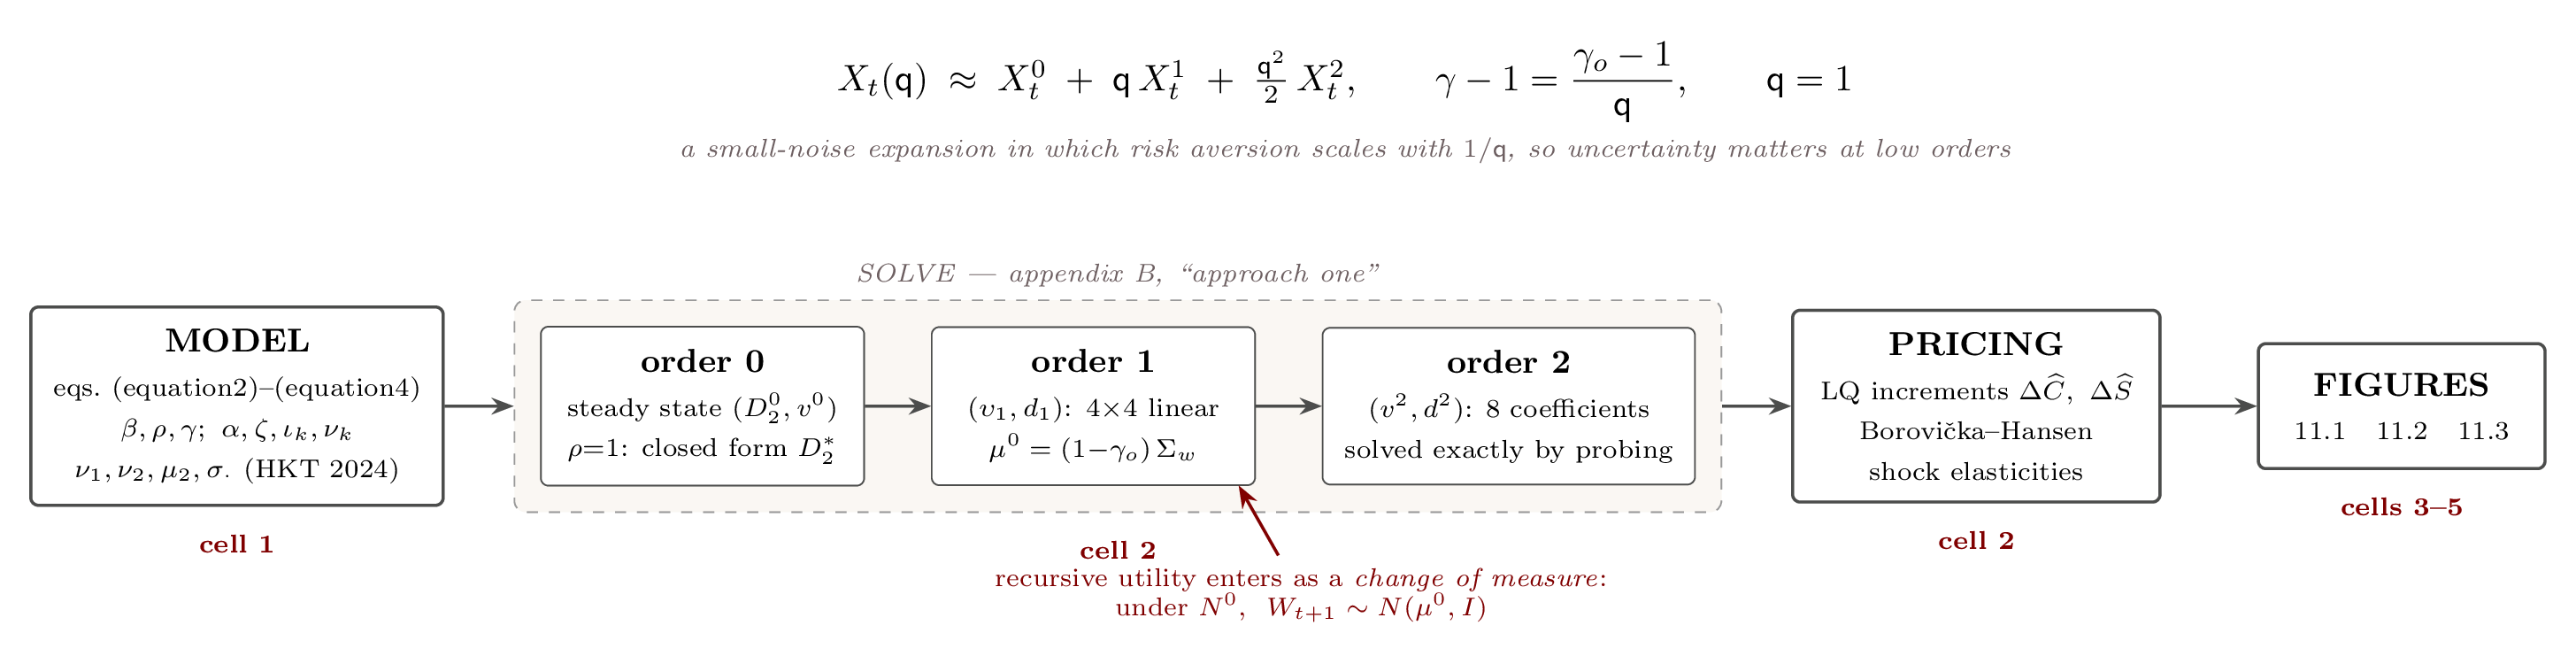
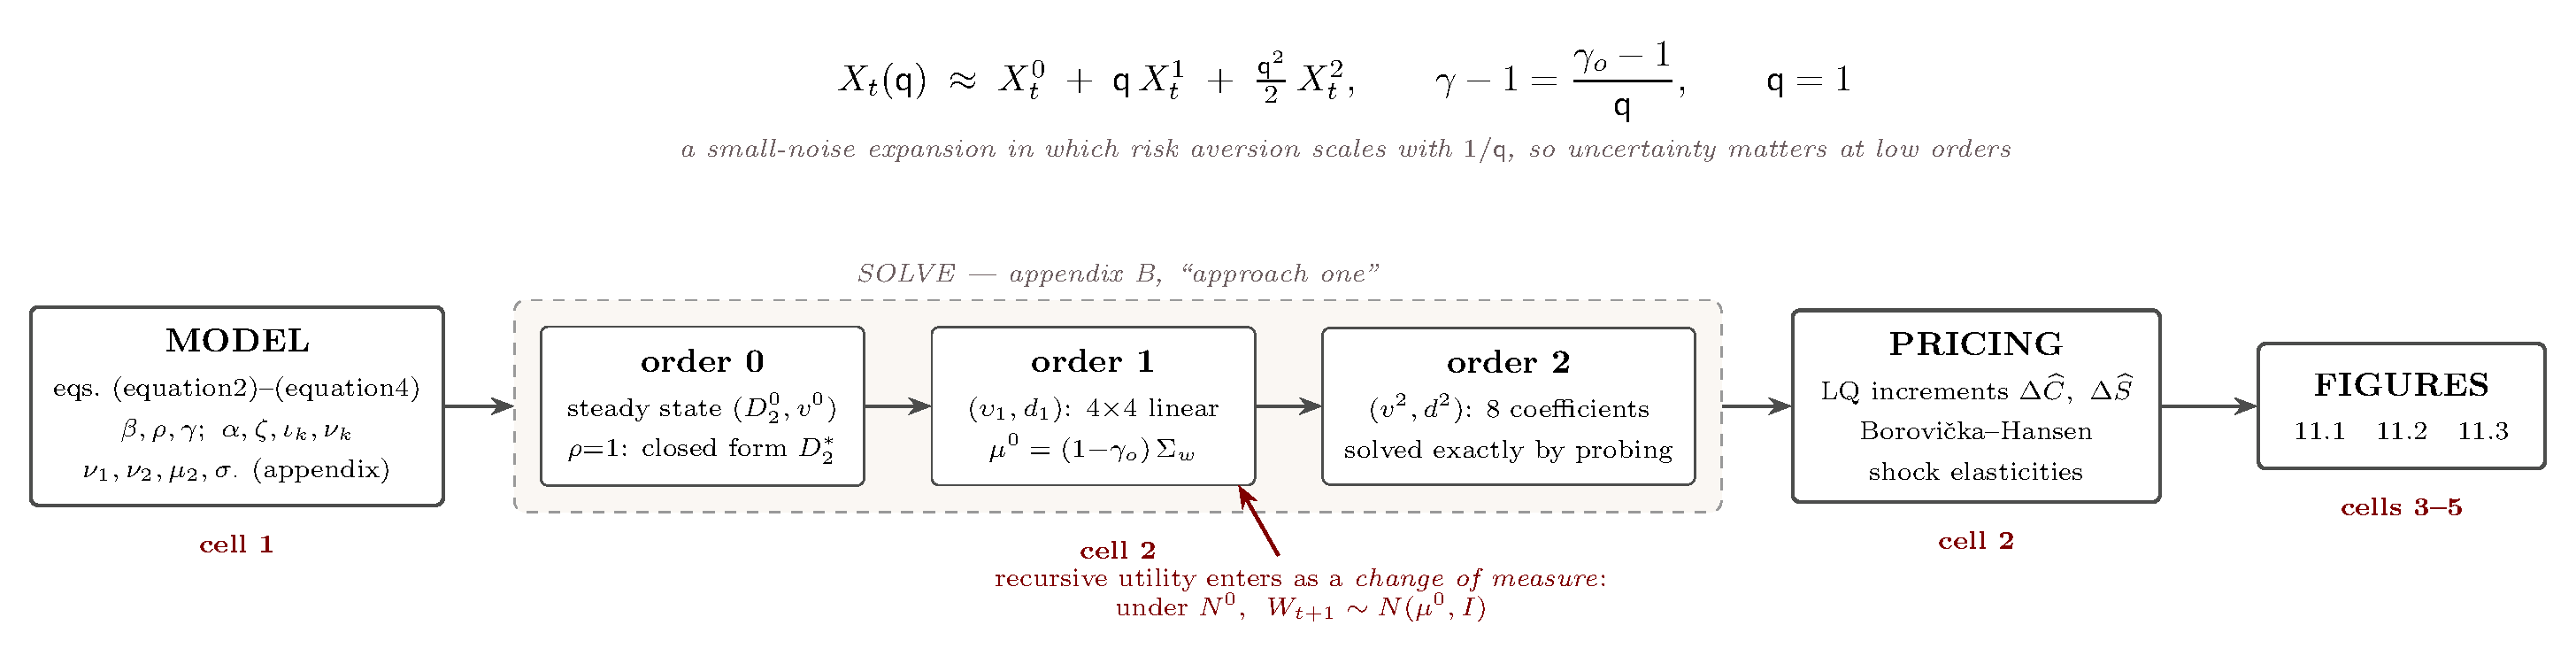
appendix is the reference

diff --git a/make_notebook.py b/make_notebook.py
@@ -19,8 +19,8 @@ TITLE = r"""# Chapter 11: Figures 11.1–11.3
 
 The AK production economy of Chapter 11, declared in the chapter's notation
 and solved with the expansion engine (`uncertain_expansion`, imported
-directly from this repository's `src/`). Parameters follow the appendix
-table and Hansen–Khorrami–Tourre (2024), converted to quarterly.
+directly from this repository's `src/`). Parameters are the quarterly
+values of the chapter appendix.
 
 ![method](https://raw.githubusercontent.com/as7391746/QuantMFR-Colab/main/assets/method.png)
 
@@ -82,28 +82,24 @@ MODEL = r"""# ================================ MODEL ===========================
 #   - recursive preferences {eq}`value_recur5`/{eq}`value_risk6` (handled
 #     inside the engine; only beta, rho, gamma appear here).
 #
-# Everything is QUARTERLY. Conversion from the annual numbers in the
-# appendix table / HKT 2024: rates and flows are divided by 4; volatility
-# vectors are the monthly calibration scaled by sqrt(3) (variances add
-# across the three months of a quarter).
+# All parameter values are quarterly, as in the chapter appendix.
 SQRT3 = np.sqrt(3.0)
 PARAMS = {
-    "beta": np.exp(-0.01 / 4),        # discount factor: delta = 0.01/yr -> exp(-0.01/4)
-    "zeta": 32.0,                     # adjustment-cost curvature: 8/yr x 4 (I/K is a quarterly ratio)
-    "iota_k": 0.01,                   # capital drift constant: 0.04/yr / 4
-    "nu_k": 0.01,                     # capital loading on Z1:   0.04/yr / 4
-    "nu_1": 0.014,                    # Z1 mean reversion:       0.056/yr / 4  (autocorr 0.986)
-    "nu_2": 0.0485,                   # Z2 mean reversion:       0.194/yr / 4
-    "mu_2": 6.3e-6,                   # central tendency of exp(Z2): a level, no conversion
-    "sigma_k": SQRT3 * np.array([0.92, 0.40, 0.0]),     # capital shock loadings (monthly x sqrt(3))
+    "beta": np.exp(-0.0025),          # quarterly discount factor
+    "zeta": 32.0,                     # adjustment-cost curvature
+    "iota_k": 0.01,                   # capital drift constant
+    "nu_k": 0.01,                     # capital loading on Z1
+    "nu_1": 0.014,                    # Z1 mean reversion (autocorrelation 0.986)
+    "nu_2": 0.0485,                   # Z2 mean reversion
+    "mu_2": 6.3e-6,                   # central tendency of exp(Z2)
+    "sigma_k": SQRT3 * np.array([0.92, 0.40, 0.0]),     # capital shock loadings
     "sigma_1": SQRT3 * np.array([0.0, 5.70, 0.0]),      # growth-state loadings
     "sigma_2": SQRT3 * np.array([0.0, 0.0, 0.00031]),   # volatility-state loadings
 }
-# Productivity alpha is stated annually and paired with rho so that all
-# rho share the same 1.9%/yr steady-state growth (HKT 2024, Table 3);
-# quarterly alpha = annual / 4. The base case uses 0.0922.
-ALPHA_ANNUAL = {0.67: 0.082, 1.001: 0.092, 1.5: 0.108}
-ALPHA_BASE = 0.0922
+# Productivity alpha is paired with rho so that all specifications share
+# the same steady-state growth. The base case uses 0.02305.
+ALPHA = {0.67: 0.0205, 1.001: 0.023, 1.5: 0.027}
+ALPHA_BASE = 0.02305
 
 # Declare the model. m["X"] gives the symbol for a variable; m.p.name gives
 # a parameter symbol; m.W are next-period shocks; m.q is the noise scale;
@@ -139,15 +135,15 @@ m.constraint = p.alpha - D1 - D2
 #   invk_r*   (gamma = 8)       -> Fig 11.2 (investment-capital exposure)
 #   g*_r*     (3x3 gamma x rho) -> Fig 11.1 (consumption, 6-panel grid)
 # gamma/rho carry small offsets from the degenerate values (8.001 for 8,
-# 1.001 for 1), as in the runs behind the published figures.
+# 1.001 for 1) to stay clear of the limiting formulas.
 SCENARIOS = (
     [{"id": "base", "gamma": 8.001, "rho": 1.001,
-      "alpha_annual": ALPHA_BASE, "figure": "price_quantiles"}]
+      "alpha": ALPHA_BASE, "figure": "price_quantiles"}]
     + [{"id": f"invk_r{r}", "gamma": 8.0, "rho": r,
-        "alpha_annual": ALPHA_ANNUAL[r], "figure": "invk_expo"}
+        "alpha": ALPHA[r], "figure": "invk_expo"}
        for r in [0.67, 1.001, 1.5]]
     + [{"id": f"g{g}_r{r}", "gamma": g, "rho": r,
-        "alpha_annual": ALPHA_ANNUAL[r], "figure": "six_panel"}
+        "alpha": ALPHA[r], "figure": "six_panel"}
        for g in [1.001, 4.001, 8.001] for r in [0.67, 1.001, 1.5]]
 )"""
 
@@ -169,7 +165,7 @@ T, GROWTH_SHOCK, CAPITAL_SHOCK = 160, 1, 0
 
 def solve_scenario(sc):
     # per-scenario parameters: preferences and the rho-paired alpha
-    alpha_q = sc["alpha_annual"] / 4.0
+    alpha_q = sc["alpha"]
     params = dict(PARAMS)
     params.update({"gamma": float(sc["gamma"]), "rho": float(sc["rho"]),
                    "alpha": alpha_q})
@@ -274,14 +270,12 @@ continuation value makes the growth-rate shock, rather than the direct
 capital shock, carry the large prices.
 
 **Calibration.** When $\rho$ varies, the productivity $\alpha$ is re-paired
-(0.082 / 0.092 / 0.108 annually) so all specifications share the same
-1.9%/yr steady-state growth (HKT 2024, Table 3). All parameters here are
-quarterly: annual drifts ÷ 4, volatilities $=\sqrt3\,\times$ the
-monthly-calibrated vectors, $\beta = e^{-0.01/4}$.
+(0.0205 / 0.023 / 0.027) so all specifications share the same steady-state
+growth. All parameter values are quarterly, as in the chapter appendix.
 
 **Checks.** The solver is the expansion engine itself, imported unmodified
 from `src/` (RiskUncertaintyValue, branch `Planners_with_External`, commit
-`09ca5df`), and the curves match the runs behind the published figures.
+`09ca5df`), and the resulting figures line up with the chapter's.
 More detail: [`README.md`](https://github.com/as7391746/QuantMFR-Colab)."""
 
 

diff --git a/expansion/ak_example.py b/expansion/ak_example.py
@@ -1,6 +1,6 @@
 """The Chapter 11 AK economy through the user-facing expansion layer:
 declare the chapter's equations in the chapter's notation, feed the
-appendix's quarterly parameter table, and generate Figures 11.1-11.3.
+appendix's quarterly parameters, and generate Figures 11.1-11.3.
 
 Run:  python ak_example.py           (all 13 solves + 3 figures)
       python ak_example.py base      (the single base solve, quick check)
@@ -12,32 +12,30 @@ import time
 import numpy as np
 import sympy as sp
 
-from expansion import Model, annual_to_quarterly
+from expansion import Model
 
 # ---------------------------------------------------------------------------
-# Parameters: the appendix table (quarterly), preferences per scenario.
-# The annual -> quarterly conversions, stated explicitly:
+# Parameters: the quarterly values of the chapter appendix.
 # ---------------------------------------------------------------------------
 
-CONVERTED = annual_to_quarterly(
-    rates={"iota_k": 0.04, "nu_k": 0.04, "nu_1": 0.056, "nu_2": 0.194},
-    volatilities_monthly={"sigma_k": [0.92, 0.40, 0.0],
-                          "sigma_1": [0.0, 5.70, 0.0],
-                          "sigma_2": [0.0, 0.0, 0.00031]},
-    ratios={"zeta": 8.0},
-    verbose=False,
-)
-
+SQRT3 = np.sqrt(3.0)
 PARAMS = {
-    "beta": np.exp(-0.01 / 4),      # exp(-delta/4), annual delta = 0.01
-    "mu_2": 6.3e-6,                 # mean of exp(Z2): a level, no conversion
-    **CONVERTED,
+    "beta": np.exp(-0.0025),          # quarterly discount factor
+    "zeta": 32.0,                     # adjustment-cost curvature
+    "iota_k": 0.01,                   # capital drift constant
+    "nu_k": 0.01,                     # capital loading on Z1
+    "nu_1": 0.014,                    # Z1 mean reversion
+    "nu_2": 0.0485,                   # Z2 mean reversion
+    "mu_2": 6.3e-6,                   # central tendency of exp(Z2)
+    "sigma_k": SQRT3 * np.array([0.92, 0.40, 0.0]),
+    "sigma_1": SQRT3 * np.array([0.0, 5.70, 0.0]),
+    "sigma_2": SQRT3 * np.array([0.0, 0.0, 0.00031]),
 }
 
-# productivity alpha is paired with rho so that all rho share the same
-# steady-state growth (annual values; quarterly = /4)
-ALPHA_ANNUAL = {0.67: 0.082, 1.001: 0.092, 1.5: 0.108}
-ALPHA_BASE = 0.0922
+# productivity alpha is paired with rho so that all specifications share
+# the same steady-state growth; the base case uses 0.02305
+ALPHA = {0.67: 0.0205, 1.001: 0.023, 1.5: 0.027}
+ALPHA_BASE = 0.02305
 
 # ---------------------------------------------------------------------------
 # Model: the chapter's equations, in the chapter's notation.
@@ -80,18 +78,18 @@ GROWTH_SHOCK, CAPITAL_SHOCK = 1, 0
 
 SCENARIOS = (
     [{"id": "base", "gamma": 8.001, "rho": 1.001,
-      "alpha_annual": ALPHA_BASE, "figure": "price_quantiles"}]
+      "alpha": ALPHA_BASE, "figure": "price_quantiles"}]
     + [{"id": f"invk_r{r}", "gamma": 8.0, "rho": r,
-        "alpha_annual": ALPHA_ANNUAL[r], "figure": "invk_expo"}
+        "alpha": ALPHA[r], "figure": "invk_expo"}
        for r in [0.67, 1.001, 1.5]]
     + [{"id": f"g{g}_r{r}", "gamma": g, "rho": r,
-        "alpha_annual": ALPHA_ANNUAL[r], "figure": "six_panel"}
+        "alpha": ALPHA[r], "figure": "six_panel"}
        for g in [1.001, 4.001, 8.001] for r in [0.67, 1.001, 1.5]]
 )
 
 
 def solve_scenario(m, sc):
-    alpha_quarterly = sc["alpha_annual"] / 4.0
+    alpha_quarterly = sc["alpha"]
     params = dict(PARAMS)
     params.update({"gamma": float(sc["gamma"]), "rho": float(sc["rho"]),
                    "alpha": alpha_quarterly})

diff --git a/expansion/expansion.py b/expansion/expansion.py
@@ -268,28 +268,3 @@ class Solution:
         return price_elasticity(
             inc, self.log_sdf, self.raw["X1_tp1"], self.raw["X2_tp1"], T,
             shock=shock, percentile=quantile).flatten()
-
-
-def annual_to_quarterly(rates=None, volatilities_monthly=None, ratios=None,
-                        verbose=True):
-    """Explicit time-step conversion. Drifts and flow rates divide by 4;
-    a monthly-calibrated volatility vector scales by sqrt(3); parameters
-    stated as per-quarter ratios multiply the corresponding annual
-    curvature by 4 (e.g. an adjustment-cost zeta on I/K)."""
-    out = {}
-    rows = []
-    for name, v in (rates or {}).items():
-        out[name] = np.asarray(v, dtype=float) / 4.0
-        rows.append((name, v, out[name], "annual rate / 4"))
-    for name, v in (volatilities_monthly or {}).items():
-        out[name] = np.sqrt(3.0) * np.asarray(v, dtype=float)
-        rows.append((name, v, out[name], "monthly vol x sqrt(3)"))
-    for name, v in (ratios or {}).items():
-        out[name] = np.asarray(v, dtype=float) * 4.0
-        rows.append((name, v, out[name], "annual curvature x 4"))
-    if verbose and rows:
-        print(f"{'parameter':<12}{'input':>22}{'quarterly':>22}   rule")
-        for name, vin, vout, rule in rows:
-            print(f"{name:<12}{str(vin):>22}{str(np.round(vout, 6)):>22}"
-                  f"   {rule}")
-    return out

diff --git a/assets/method.tex b/assets/method.tex
@@ -30,7 +30,7 @@
   {\textbf{MODEL}\\[1pt]
    \scriptsize eqs.\ (equation2)--(equation4)\\
    \scriptsize $\beta,\rho,\gamma;\ \alpha,\zeta,\iota_k,\nu_k$\\
-   \scriptsize $\nu_1,\nu_2,\mu_2,\sigma_\cdot$ (HKT 2024)};
+   \scriptsize $\nu_1,\nu_2,\mu_2,\sigma_\cdot$ (appendix)};
 
 \node[order, right=26pt of model] (o0)
   {\textbf{order 0}\\[1pt]\scriptsize steady state $(D_2^0, v^0)$\\

diff --git a/README.md b/README.md
@@ -6,9 +6,9 @@
 
 A replication of the three AK-economy shock-elasticity figures of *Risk,
 Uncertainty, and Value* Chapter 11: the model is declared in the chapter's
-notation with the parameters of the chapter appendix (converted
-annual→quarterly explicitly), and solved with the expansion engine
-`uncertain_expansion` imported directly from this repository.
+notation with the quarterly parameters of the chapter appendix, and solved
+with the expansion engine `uncertain_expansion` imported directly from
+this repository.
 
 Model — solve — plot:
 